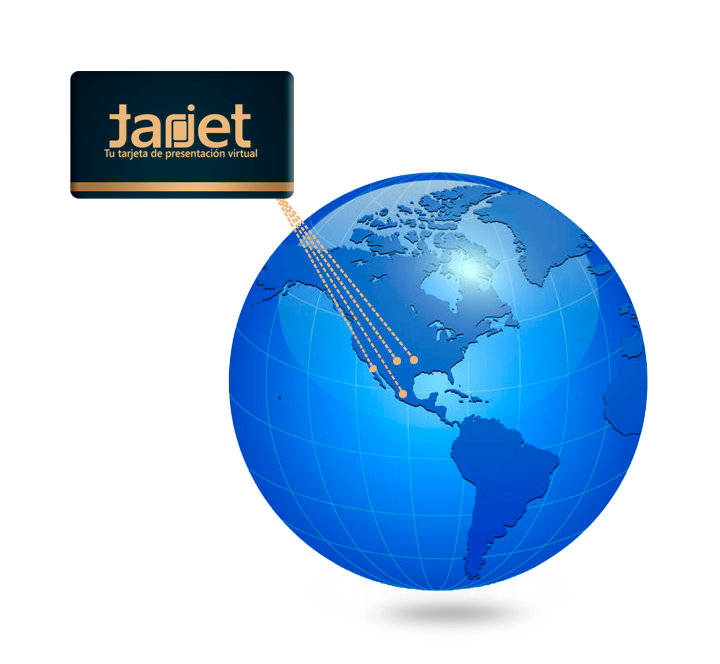
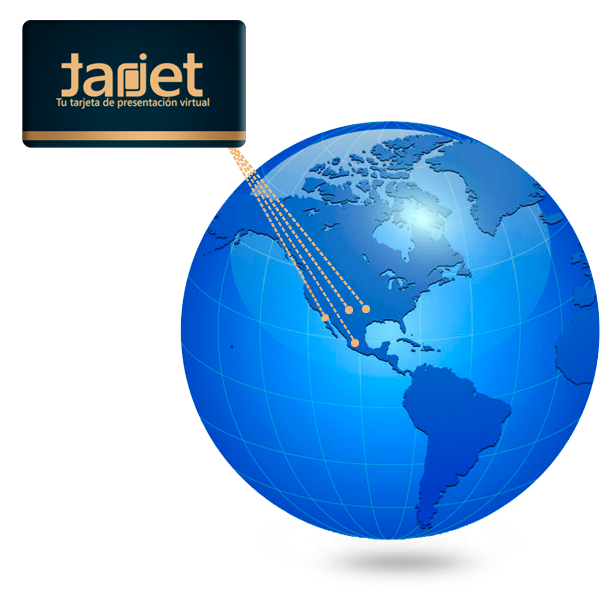
Mundo efecto

diff --git a/src/componentes/QueEsTarjet.js b/src/componentes/QueEsTarjet.js
@@ -91,10 +91,10 @@ const QueEsTarjet = () => {
                     <motion.img 
                         src={corazon} 
                         alt="Tarjet | Tu tarjeta de presentación Online" 
-                        initial={{scale:0}}
-                        whileInView={{scale:1}}
-                        transition={{delay: 0.4}}
-                        whileTap={{rotate: 90, scale: 0.75}}
+                        initial={{opacity:0, scale:0}}
+                        whileInView={{opacity:1, scale:[1,1.1,1]}}
+                        viewport={{once:true}}
+                        whileTap={{scale: 1}}
                     />
                     <p className='w-100 float-right text-right'>
                         <span>I love Tarjet</span>
@@ -366,18 +366,6 @@ const InfoContenedores = styled.div`
             }
         }
     }
-
-    .mundo{
-        background: #12a3d9;
-        img{
-            width: 100%;
-            float: right;
-            
-            @media screen and (max-width: 575px){
-            width: 110%;
-        }
-        }
-    }
     .negocio{
         background: #12a3d9;
         img{
@@ -390,10 +378,12 @@ const InfoContenedores = styled.div`
         }
     }
     .corazon{
+        overflow: hidden;
         background: #ed2f59;
         img{
             width: 80%;
-            float: right;
+            position: relative;
+            left: 150px;
         }
     }
 `;

diff --git a/src/componentes/InformacionSinSesion.js b/src/componentes/InformacionSinSesion.js
@@ -106,11 +106,11 @@ const Informacion = () => {
                     <motion.img 
                         src={mundo} 
                         alt="Tarjet | Tu tarjeta de presentación online" 
-                        // initial={{opacity:0, scale:0}}
-                        // whileInView={{opacity:1, scale:[1,1.1,1]}}
+                        initial={{opacity:0, scale:0}}
+                        whileInView={{opacity:1, scale:[1,1.1,1]}}
                         transition={{ease:'easeOut'}}
                         viewport={{once:true}}
-                        whileTap={{scale:2}}
+                        whileTap={{scale:1}}
                     />
                     <p>Sin costo alguno.</p>
                 </div>
@@ -526,13 +526,18 @@ const MundoMujer = styled.div`
 
     .mundo{
         background: #12a3d9;
+        overflow: hidden;
+
         img{
             width: 100%;
-            float: right;
-            word-break: break-word!important;
+            /* float: right; */
+            position: relative;
+            left: 97px;
+            top: -3px;
             
             @media screen and (max-width: 575px){
                 width: 110%;
+                left: 65px;
             }
         }
     }
